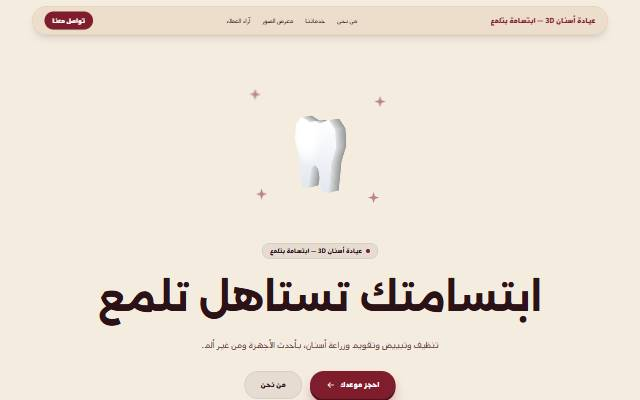
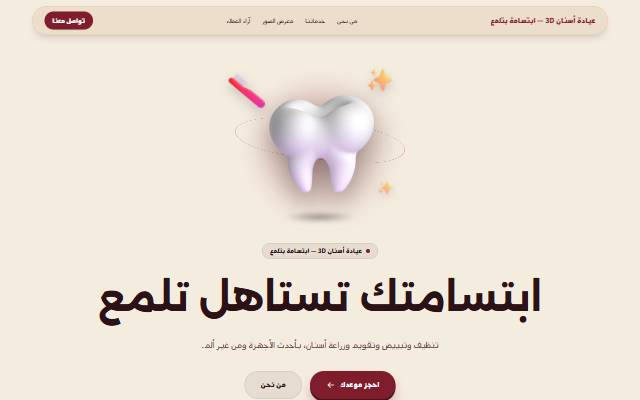
feat(templates): عينات 3D من صور Microsoft Fluent (أسنان/كافيه/كاوتش)

Changed region(s): [[0.3438, 0.18, 0.625, 0.57]]

diff --git a/resources/css/app.css b/resources/css/app.css
@@ -898,3 +898,27 @@
         transition: none;
     }
 }
+
+/* ===== رسومات من صور 3D جاهزة (scenes/_image، 2026-10-13) =====
+   صورة رئيسية بتعوم + ظل على الأرض بيصغر ويكبر معاها + هالة ضوء بلون الموقع + مدار، وصور صغيرة على
+   أعماق (--depth: 0 قريب حاد، 1 بعيد مغبّش وأصغر وأبطأ). الميل مع الماوس على الصورة الرئيسية. */
+.bq3d-imgscene { width: calc(var(--bq3d-size, 20rem) * 1.15); height: calc(var(--bq3d-size, 20rem) * 1.15); }
+.bq3d-imgscene .bq3d-img-glow { position: absolute; inset: 8%; border-radius: 9999px; background: radial-gradient(circle, color-mix(in srgb, var(--site-primary) 42%, transparent), transparent 68%); filter: blur(18px); }
+.bq3d-imgscene .bq3d-img-orbit { position: absolute; inset: 10% 4% 20%; border-radius: 9999px; border: 1.5px solid color-mix(in srgb, var(--site-primary) 35%, transparent); transform: rotateX(72deg); }
+.bq3d-imgscene .bq3d-img-shadow { position: absolute; left: 30%; right: 30%; bottom: 9%; height: 1.4rem; border-radius: 50%; background: radial-gradient(ellipse, rgb(0 0 0 / .38), transparent 70%); filter: blur(4px); }
+.bq3d-imgscene .bq3d-img-main { position: absolute; left: 50%; top: 46%; width: 66%; translate: -50% -50%; perspective: 800px; pointer-events: auto; }
+.bq3d-imgscene .bq3d-img-hero { display: block; width: 100%; height: auto; filter: drop-shadow(0 22px 26px rgb(0 0 0 / .28)) saturate(1.06); transform: rotateY(-10deg) rotateX(4deg); transition: transform .7s cubic-bezier(.2, .7, .2, 1); }
+.bq3d-imgscene .bq3d-img-main:hover .bq3d-img-hero { transform: rotateY(14deg) rotateX(-6deg) scale(1.06); }
+.bq3d-imgscene .bq3d-img-sat { position: absolute; height: auto; scale: calc(1 - var(--depth) * .25); filter: blur(calc(var(--depth) * 2.2px)) drop-shadow(0 10px 12px rgb(0 0 0 / .22)); opacity: calc(1 - var(--depth) * .25); }
+.bq3d-overlay .bq3d-img-main { pointer-events: none; }
+
+@keyframes bq3d-img-float { 0%, 100% { translate: -50% -50%; rotate: -3deg; } 50% { translate: -50% calc(-50% - 1.1rem); rotate: 3deg; } }
+@keyframes bq3d-img-shadow { 0%, 100% { scale: 1; opacity: 1; } 50% { scale: .78; opacity: .6; } }
+@keyframes bq3d-img-drift { 0%, 100% { translate: 0 0; rotate: -6deg; } 50% { translate: .5rem -1.2rem; rotate: 8deg; } }
+
+@media (prefers-reduced-motion: no-preference) {
+    .bq-reveal .bq3d-imgscene .bq3d-img-main { animation: bq3d-img-float 6s ease-in-out infinite; }
+    .bq-reveal .bq3d-imgscene .bq3d-img-shadow { animation: bq3d-img-shadow 6s ease-in-out infinite; }
+    .bq-reveal .bq3d-imgscene .bq3d-img-sat { animation: bq3d-img-drift calc(5s + var(--depth) * 4s) ease-in-out infinite; animation-delay: var(--delay, 0s); }
+    .bq-reveal .bq3d-imgscene .bq3d-img-orbit { animation: bq-retro-spin 30s linear infinite; }
+}

diff --git a/app/Support/SceneLibrary.php b/app/Support/SceneLibrary.php
@@ -17,6 +17,21 @@ final class SceneLibrary
         'nursery' => 'مكعبات لعب', 'shutter' => 'كاميرا', 'essence' => 'زجاجة عطر', 'pawprint' => 'بصمة وعضمة',
     ];
 
+    // (2026-10-13) رسومات من صور 3D جاهزة (Microsoft Fluent 3D Emoji، MIT — public/images/scenes3d) بتغلب
+    // الرسم بالكود لنفس المفتاح. main = الصورة الكبيرة، satellites = [ملف، مقاس rem، left، top، عمق 0..1].
+    public const IMAGE_SCENES = [
+        'tooth' => ['main' => 'tooth_3d.png', 'satellites' => [
+            ['toothbrush_3d.png', 5.5, '-2%', '8%', .2], ['sparkles_3d.png', 4, '74%', '4%', .5], ['sparkles_3d.png', 2.6, '80%', '66%', .9],
+        ]],
+        'brew' => ['main' => 'hot_beverage_3d.png', 'satellites' => [
+            ['croissant_3d.png', 5.4, '-4%', '58%', .15], ['shortcake_3d.png', 4.4, '74%', '6%', .6], ['sparkles_3d.png', 2.4, '6%', '6%', .9],
+        ]],
+        // «Wheel» عند مايكروسوفت عجلة خشب (مش كاوتش) — العربية هي الأساس، والعجلة صغيرة بعيد.
+        'tire' => ['main' => 'racing_car_3d.png', 'satellites' => [
+            ['wrench_3d.png', 5, '-2%', '8%', .2], ['gear_3d.png', 4.6, '74%', '4%', .5], ['automobile_3d.png', 4.4, '78%', '64%', .7],
+        ]],
+    ];
+
     /** @return array<string, string> مفتاح => اسم الرسمة (كل الرسومات) */
     public static function all(): array
     {

diff --git a/resources/views/site/partials/depth/page.blade.php b/resources/views/site/partials/depth/page.blade.php
@@ -26,6 +26,8 @@
     $rating = $sections->firstWhere('kind', 'testimonials')['rating'] ?? null;
     // رسمة متختارة للموقع ده (site.scene_override — ميكس) بتغلب رسمة القالب.
     $sceneKey = ($sceneOverride ?? null) ?: $dp['scene'];
+    // رسمة من صور جاهزة (IMAGE_SCENES) بتبان أحسن في النص كبيرة، مش راكبة على صورة الهيرو (2026-10-13).
+    $heroMode = isset(\App\Support\SceneLibrary::IMAGE_SCENES[$sceneKey]) ? 'stage' : $dp['hero'];
 @endphp
 
 {{-- overflow-x: clip — قلبة الظهور الـ3D والمجسمات الطالعة برّه الحاويات ماتعملش سكرول عرضي على
@@ -50,7 +52,7 @@
         <section id="{{ $section['key'] }}" class="relative overflow-hidden px-5 pb-20 pt-12 sm:px-10 sm:pb-28 sm:pt-16">
             <div class="pointer-events-none absolute inset-0" style="{{ $backdrop }}" aria-hidden="true"></div>
 
-            @if ($dp['hero'] === 'stage')
+            @if ($heroMode === 'stage')
                 <div class="relative mx-auto flex max-w-6xl flex-col items-center gap-8 text-center">
                     <div class="flex h-[15rem] items-center justify-center sm:h-[20rem]">
                         @include('site.partials.depth.scene', ['sceneKey' => $sceneKey])

diff --git a/resources/views/site/partials/depth/scenes/_image.blade.php b/resources/views/site/partials/depth/scenes/_image.blade.php
@@ -1,0 +1,15 @@
+{{-- رسمة 3D من صور جاهزة (Microsoft Fluent 3D Emoji — رخصة MIT، public/images/scenes3d) بدل الرسم بالكود
+     (2026-10-13، فؤاد: الأشكال المرسومة بالكود "تعبانة"). صورة رئيسية كبيرة بتعوم وبتميل لما الماوس يقف عليها،
+     وصور صغيرة حواليها على أعماق مختلفة (البعيدة مغبّشة شوية = عمق). $sceneKey = مفتاح من SceneLibrary::IMAGE_SCENES. --}}
+@php $img = \App\Support\SceneLibrary::IMAGE_SCENES[$sceneKey]; @endphp
+<div class="bq3d-scene bq3d-imgscene" aria-hidden="true">
+    <span class="bq3d-img-glow"></span>
+    <span class="bq3d-img-orbit"></span>
+    <span class="bq3d-img-shadow"></span>
+    @foreach ($img['satellites'] as $i => [$file, $size, $left, $top, $depth])
+        <img src="/images/scenes3d/{{ $file }}" alt="" loading="lazy" class="bq3d-img-sat" style="width: {{ $size }}rem; left: {{ $left }}; top: {{ $top }}; --depth: {{ $depth }}; --delay: {{ $i * 0.9 }}s;">
+    @endforeach
+    <div class="bq3d-img-main">
+        <img src="/images/scenes3d/{{ $img['main'] }}" alt="" class="bq3d-img-hero">
+    </div>
+</div>

diff --git a/resources/views/site/partials/depth/scene.blade.php b/resources/views/site/partials/depth/scene.blade.php
@@ -1,5 +1,7 @@
-{{-- رسمة 3D بالمفتاح: ملف Blade لوحدها (الـ20 الأولى) أو وصف بيانات من SceneLibrary. --}}
-@if (\App\Support\SceneLibrary::has($sceneKey))
+{{-- رسمة 3D بالمفتاح: صور 3D جاهزة (IMAGE_SCENES، الأولوية)، أو ملف Blade (الـ20 الأولى)، أو وصف بيانات من SceneLibrary. --}}
+@if (isset(\App\Support\SceneLibrary::IMAGE_SCENES[$sceneKey]))
+    @include('site.partials.depth.scenes._image', ['sceneKey' => $sceneKey])
+@elseif (\App\Support\SceneLibrary::has($sceneKey))
     @include('site.partials.depth.scenes._spec', ['sceneKey' => $sceneKey])
 @elseif (view()->exists('site.partials.depth.scenes.'.$sceneKey))
     @include('site.partials.depth.scenes.'.$sceneKey)

diff --git a/tests/Feature/Depth3dTemplatesTest.php b/tests/Feature/Depth3dTemplatesTest.php
@@ -38,7 +38,7 @@ class Depth3dTemplatesTest extends TestCase
             $public = $this->get(route('site.show', ['siteSlug' => $site->slug]));
             $public->assertOk();
             $html = $public->getContent();
-            $this->assertSame(2, substr_count($html, 'class="bq3d-scene"'), "{$template->layout}: scene in hero + contact");
+            $this->assertSame(2, substr_count($html, 'class="bq3d-scene'), "{$template->layout}: scene in hero + contact");
             $this->assertStringContainsString('bq3d-still', $html, "{$template->layout}: second scene is static");
             $this->assertStringNotContainsString('live-editor.js', $html);
 
